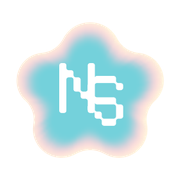
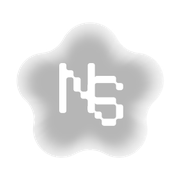
Black and white
Black type on a white page, as in the reference:
- background, clouds and leaf baked into pale greys (the sky keeps a light
  grey so the About scene still reads); favicon and loader logo in grey
- title SVGs in #222, their blue glow neutralised
- colour tokens remapped to black/greys; photos, sun, laptop, fish, the
  chameleon and the About pop-up desaturated in CSS
- project colours turned into greys of the same lightness (chameleon.js)
- menu and contact buttons: light glass with black type and icons

Claude-Session: https://claude.ai/code/session_01DvA43kwznhfsetrajp2DeL

Changed region(s): [[0.1667, 0.1944, 0.8333, 0.8056]]

diff --git a/index.html b/index.html
@@ -11,13 +11,13 @@
   <link rel="preconnect" href="https://fonts.googleapis.com">
   <link rel="preconnect" href="https://fonts.gstatic.com" crossorigin>
   <link rel="stylesheet" href="https://fonts.googleapis.com/css2?family=Archivo:wdth,wght@125,400;125,700&family=Italiana&family=Unbounded:wght@300;400;500&display=swap">
-  <link rel="stylesheet" href="styles.css?v=1a28f730">
+  <link rel="stylesheet" href="styles.css?v=385d8996">
   <script>document.documentElement.classList.add('js', 'is-loading')</script>
 </head>
 <body>
   <!-- Loading screen: the spinning logo and a percentage, driven by loader.js -->
   <div class="loader" id="loader" role="progressbar" aria-label="Loading" aria-valuemin="0" aria-valuemax="100" aria-valuenow="0">
-    <img class="loader-logo" src="assets/loader-logo.webp" alt="" width="256" height="256">
+    <img class="loader-logo" src="assets/loader-logo.webp?v=bw" alt="" width="256" height="256">
     <p class="loader-text">Loading <span id="loaderNum">0</span>%</p>
   </div>
   <!-- Built from Figma frame "Main" (1440 × 4237). The artwork is one exported
@@ -35,17 +35,17 @@
     <div class="pin-wrap" id="pinWrap">
       <div class="pin" id="pin">
         <img class="l sky-puff" id="skyPuff" style="--x:661px;--y:306px;--w:695px;--h:855px" src="assets/sky-puff.webp" alt="">
-        <img class="l clouds-px clouds-l" id="cloudsL" style="--x:0;--y:731px;--w:1440px;--h:700px" src="assets/clouds.webp" alt="">
-        <img class="l clouds-px clouds-r" id="cloudsR" style="--x:0;--y:731px;--w:1440px;--h:700px" src="assets/clouds.webp" alt="">
+        <img class="l clouds-px clouds-l" id="cloudsL" style="--x:0;--y:731px;--w:1440px;--h:700px" src="assets/clouds.webp?v=bw" alt="">
+        <img class="l clouds-px clouds-r" id="cloudsR" style="--x:0;--y:731px;--w:1440px;--h:700px" src="assets/clouds.webp?v=bw" alt="">
 
         <section class="sec" id="about" style="top:400px" aria-labelledby="hello">
-          <h2 class="l reveal type" id="hello" style="--d:0s;--x:178.65px;--y:11.58px"><img src="assets/type-hello.svg" width="306" height="121" alt="Hello,"></h2>
+          <h2 class="l reveal type" id="hello" style="--d:0s;--x:178.65px;--y:11.58px"><img src="assets/type-hello.svg?v=bw2" width="306" height="121" alt="Hello,"></h2>
           <div class="l reveal t-intro" style="--d:.15s;--x:176px;--y:156px;--w:473px">
             <p>I’m Nika, a third-year student in Digital Design &amp; Development, currently specialising in visual design and experience design.</p>
             <p>Inspired by all kinds of creative fields, I’m passionate about creating useful and inspiring projects.</p>
           </div>
           <a class="l reveal btn" style="--d:.3s;--x:176px;--y:450px;--w:229px;--h:48px" href="#about" data-about>About me</a>
-          <button class="l reveal qbtn" style="--d:.2s;--x:958.66px;--y:131.37px" data-about aria-label="Who is behind the question mark? Meet Nika"><img src="assets/type-question.svg" width="106" height="196" alt=""></button>
+          <button class="l reveal qbtn" style="--d:.2s;--x:958.66px;--y:131.37px" data-about aria-label="Who is behind the question mark? Meet Nika"><img src="assets/type-question.svg?v=bw2" width="106" height="196" alt=""></button>
         </section>
       </div>
     </div>
@@ -55,9 +55,9 @@
     <img class="l bird" style="--x:-6.61px;--y:239.23px;--w:1328.29px;--h:558.57px" src="assets/bird.webp" alt="">
 
 
-    <h1 class="l reveal type" style="--d:0s;--x:56.74px;--y:97.59px"><img src="assets/type-portfolio.svg" width="1330" height="277" alt="Portfolio"></h1>
-    <p class="l reveal type" style="--d:.25s;--x:59px;--y:425.21px"><img src="assets/type-name.svg" width="250" height="36" alt="Nika Saracuta"></p>
-    <p class="l reveal type" style="--d:.3s;--x:1105px;--y:424.72px"><img src="assets/type-digital-creator.svg" width="280" height="43" alt="Digital creator"></p>
+    <h1 class="l reveal type" style="--d:0s;--x:56.74px;--y:97.59px"><img src="assets/type-portfolio.svg?v=bw2" width="1330" height="277" alt="Portfolio"></h1>
+    <p class="l reveal type" style="--d:.25s;--x:59px;--y:425.21px"><img src="assets/type-name.svg?v=bw2" width="250" height="36" alt="Nika Saracuta"></p>
+    <p class="l reveal type" style="--d:.3s;--x:1105px;--y:424.72px"><img src="assets/type-digital-creator.svg?v=bw2" width="280" height="43" alt="Digital creator"></p>
     </header>
 
     <!-- Sunset: sun, water lines and laptop as separate layers, stacked as in Figma.
@@ -73,8 +73,8 @@
         <!-- Two leaves (the Figma leaf and its mirror) close over the sun and laptop and
              swing outwards on their stems as the sunset scrolls up (script.js). Each stem
              end sits at the screen edge: (-40, 620) and (1480, 620). -->
-        <img class="l leaf leaf-l" id="leafL" style="--x:-40px;--y:91px" src="assets/leaf.webp" width="600" height="735" alt="">
-        <img class="l leaf leaf-r" id="leafR" style="--x:1480px;--y:91px" src="assets/leaf.webp" width="600" height="735" alt="">
+        <img class="l leaf leaf-l" id="leafL" style="--x:-40px;--y:91px" src="assets/leaf.webp?v=bw" width="600" height="735" alt="">
+        <img class="l leaf leaf-r" id="leafR" style="--x:1480px;--y:91px" src="assets/leaf.webp?v=bw" width="600" height="735" alt="">
       </div>
     </div>
     <img class="l fish" style="--x:-171px;--y:5877px;--w:3150px;--h:2100px" src="assets/fish.gif" alt="">
@@ -82,7 +82,7 @@
 
     <!-- Work -->
     <section class="sec" id="work" style="top:2398px" aria-labelledby="mywork">
-      <h2 class="l reveal type" id="mywork" style="--d:0s;--x:477.79px;--y:24.45px"><img src="assets/type-my-work.svg?v=2" width="487" height="129" alt="My work"></h2>
+      <h2 class="l reveal type" id="mywork" style="--d:0s;--x:477.79px;--y:24.45px"><img src="assets/type-my-work.svg?v=bw2" width="487" height="129" alt="My work"></h2>
       <!-- Sticky chameleon beside the scrolling project list (from the work-page
            artifact): its tongue sticks to the project in the middle of the screen. -->
       <div class="l work-layout" style="--x:130px;--y:210px;--w:1180px">
@@ -103,7 +103,7 @@
 
     <!-- Contact -->
     <section class="sec" id="contact" style="top:6234px" aria-labelledby="open">
-      <h2 class="l reveal type" id="open" style="--d:0s;--x:405.7px;--y:16.08px"><img src="assets/type-open.svg" width="630" height="68" alt="Open for new projects"></h2>
+      <h2 class="l reveal type" id="open" style="--d:0s;--x:405.7px;--y:16.08px"><img src="assets/type-open.svg?v=bw2" width="630" height="68" alt="Open for new projects"></h2>
       <p class="l reveal t-body" style="--d:.12s;--x:520px;--y:112px;--w:400px">Write directly to</p>
       <a class="l reveal t-email" style="--d:.2s;--x:520px;--y:150px;--w:400px;--h:56px" href="mailto:nikasaracuta@gmail.com">nikasaracuta@gmail.com</a>
       <!-- TODO: replace # with real profile URLs -->
@@ -183,7 +183,7 @@
       <figure class="portrait" id="portrait">
         <div class="frame">
           <img id="me" alt="Portrait of Nika Saracuta" hidden>
-          <div class="placeholder" id="mePh"><img class="q-sm" src="assets/type-question.svg" width="106" height="196" alt=""><span class="label">Your photo here</span></div>
+          <div class="placeholder" id="mePh"><img class="q-sm" src="assets/type-question.svg?v=bw2" width="106" height="196" alt=""><span class="label">Your photo here</span></div>
         </div>
       </figure>
       <ul class="notes right">
@@ -211,6 +211,6 @@
   <script src="loader.js?v=68ee955a"></script>
   <script src="script.js?v=f0a7e9d4"></script>
   <script src="about.js?v=37dfe53c"></script>
-  <script src="chameleon.js?v=4e4ce707"></script>
+  <script src="chameleon.js?v=93829f99"></script>
 </body>
 </html>

diff --git a/styles.css b/styles.css
@@ -36,7 +36,7 @@ body {
   height: 6797px;
   overflow: clip;   /* not hidden: that would stop the sticky chameleon */
   /* All artwork, exported from the Figma frame with text and icons hidden */
-  background: #fff url("assets/background.webp?v=7") top left / 1440px 6797px no-repeat;
+  background: #fff url("assets/background.webp?v=bw") top left / 1440px 6797px no-repeat;
   /* script.js sets `zoom` so the 1440px design fills the viewport width */
 }
 
@@ -80,7 +80,7 @@ body {
 .pin-wrap { position: absolute; left: 0; top: 459px; width: 1440px; height: 2200px; }
 .pin {
   position: sticky; top: var(--pin-top, -361px); width: 1440px; height: 1500px; overflow: clip;
-  background: #fff url("assets/background.webp?v=7") 0 -459px / 1440px 6797px no-repeat;
+  background: #fff url("assets/background.webp?v=bw") 0 -459px / 1440px 6797px no-repeat;
 }
 
 /* moved by script.js while pinned: the white cloud shape settles in the centre,
@@ -557,7 +557,7 @@ a:focus-visible { outline: 2px solid var(--white); outline-offset: 4px; }
 
   .sec {
     position: relative; top: auto !important; width: 100%; padding: 0 20px;
-    background: url("assets/background.webp?v=7") no-repeat;
+    background: url("assets/background.webp?v=bw") no-repeat;
     background-size: calc(1440px * var(--s, 1)) auto;
     background-position: center calc(var(--y0, 0) * var(--s, 1) * -1px);
   }
@@ -575,7 +575,7 @@ a:focus-visible { outline: 2px solid var(--white); outline-offset: 4px; }
      second background, and the crop fades into the white of the Work section */
   #about {
     --y0: 750; --s: .8; min-height: 690px; padding-top: 40px; padding-bottom: 110px;
-    background-image: url("assets/clouds.webp"), url("assets/background.webp?v=7");
+    background-image: url("assets/clouds.webp?v=bw"), url("assets/background.webp?v=bw");
     background-size: calc(1440px * var(--s)) auto;
     background-position: calc(-60px * var(--s)) calc((1190 - var(--y0)) * var(--s) * 1px), calc(-60px * var(--s)) calc(var(--y0) * var(--s) * -1px);
   }
@@ -606,7 +606,7 @@ a:focus-visible { outline: 2px solid var(--white); outline-offset: 4px; }
   .wcard .thumb { font-size: 22px; }
 
   .sunset { padding: 0; overflow: hidden; background: none; }
-  .sunset-art { zoom: var(--mz, .45); margin-left: -300px; background: url("assets/background.webp?v=7") 0 -5340px / 1440px 6797px no-repeat; }
+  .sunset-art { zoom: var(--mz, .45); margin-left: -300px; background: url("assets/background.webp?v=bw") 0 -5340px / 1440px 6797px no-repeat; }
   .sunset-art .l { position: absolute; left: var(--x); top: var(--y); width: auto; height: auto; }
 
   #contact { --y0: 6160; --s: .9; min-height: 600px; padding-top: 44px; padding-bottom: 110px; text-align: center; }
@@ -655,3 +655,49 @@ html.sparkle-on, html.sparkle-on * { cursor: none !important; }
 .is-loading, .is-loading body { overflow: hidden; }
 @keyframes loader-spin { to { transform: rotate(360deg); } }
 @media (prefers-reduced-motion: reduce) { .loader-logo { animation-duration: 12s; } }
+
+/* ---------- Black and white ----------
+   The whole site in black, white and greys: black type on a white page, the
+   artwork baked into pale greys (background, clouds, leaf), photos and the
+   remaining coloured artwork desaturated here, project colours turned into
+   greys in chameleon.js. The colour tokens above are remapped, so everything
+   that uses them follows. */
+:root {
+  --ink: #222;
+  --white: var(--ink);          /* used for type on the stage */
+  --ice: var(--ink);
+  --navy: var(--ink);
+  --pink: var(--ink);
+  --btn-pink: var(--ink);
+  --c-blue: var(--ink);
+  --c-pink: var(--ink);
+  --c-teal: #8c8c8c;
+  --c-body: #555;
+}
+body { color: var(--ink); }
+.btn { color: #fff; }
+.btn:hover { filter: none; background: #000; }
+a:focus-visible { outline-color: var(--ink); }
+.bird { filter: blur(3px) grayscale(1) invert(1); opacity: .22; }      /* the light bird becomes a soft grey ghost */
+.fish, .sunset-art > img, .wcard .thumb, .tongue-layer, .cham, .swatch,
+.peek-img, .result-art, .p-mini, .cloudpop .field-head, .cloudpop .plate, .cloudpop .toolbox, .sheet .panel { filter: grayscale(1); }
+.cham .aura > i, .cham .halo > i { background: #9a9a9a; }
+.screen { color: #fff; }
+.caret { background: #fff; }
+
+/* menu: light glass, black type, everywhere */
+.topbar, .topbar.on-light { background: rgba(255, 255, 255, .6); border-color: rgba(0, 0, 0, .14); box-shadow: 0 12px 30px -20px rgba(0, 0, 0, .35); }
+.topbar a, .topbar.on-light a { color: var(--ink); }
+.topbar a:hover, .topbar a:focus-visible, .topbar a.current,
+.topbar.on-light a:hover, .topbar.on-light a:focus-visible, .topbar.on-light a.current { background: rgba(0, 0, 0, .07); }
+
+/* contact: glass with black type and icons */
+.t-email, .social { border-color: rgba(0, 0, 0, .22); background: rgba(255, 255, 255, .45); box-shadow: 0 12px 30px -20px rgba(0, 0, 0, .35); }
+.t-email { color: var(--ink) !important; }
+.t-email:hover, .t-email:focus-visible, .social:hover, .social:focus-visible { background: rgba(255, 255, 255, .8); }
+.social img { filter: brightness(0); }
+
+/* loading screen and About pop-up */
+.js .loader { background: #fff; }
+.loader-text { color: var(--ink); }
+.cloudpop { background: radial-gradient(120% 70% at 50% 0%, #f1f1f1 0%, #fff 60%); }

diff --git a/chameleon.js b/chameleon.js
@@ -74,6 +74,11 @@
     }
   ];
 
+  // black and white: every project colour becomes the grey of the same lightness
+  const grey = h => { const [r, g, b] = [1, 3, 5].map(k => parseInt(h.slice(k, k + 2), 16));
+    const l = Math.round(.299 * r + .587 * g + .114 * b).toString(16).padStart(2, '0'); return '#' + l + l + l; };
+  PROJECTS.forEach(p => { for (const k of ['hex', 'lava', 'tint']) if (p[k]) p[k] = grey(p[k]); });
+
   const page = $('.stage');
   const list = $('#workList'), workStage = $('.work-stage'), nowName = $('#nowName');
   const mouth = $('#mouth'), tongue = $('#tongue'), tip = $('#tongueTip');
